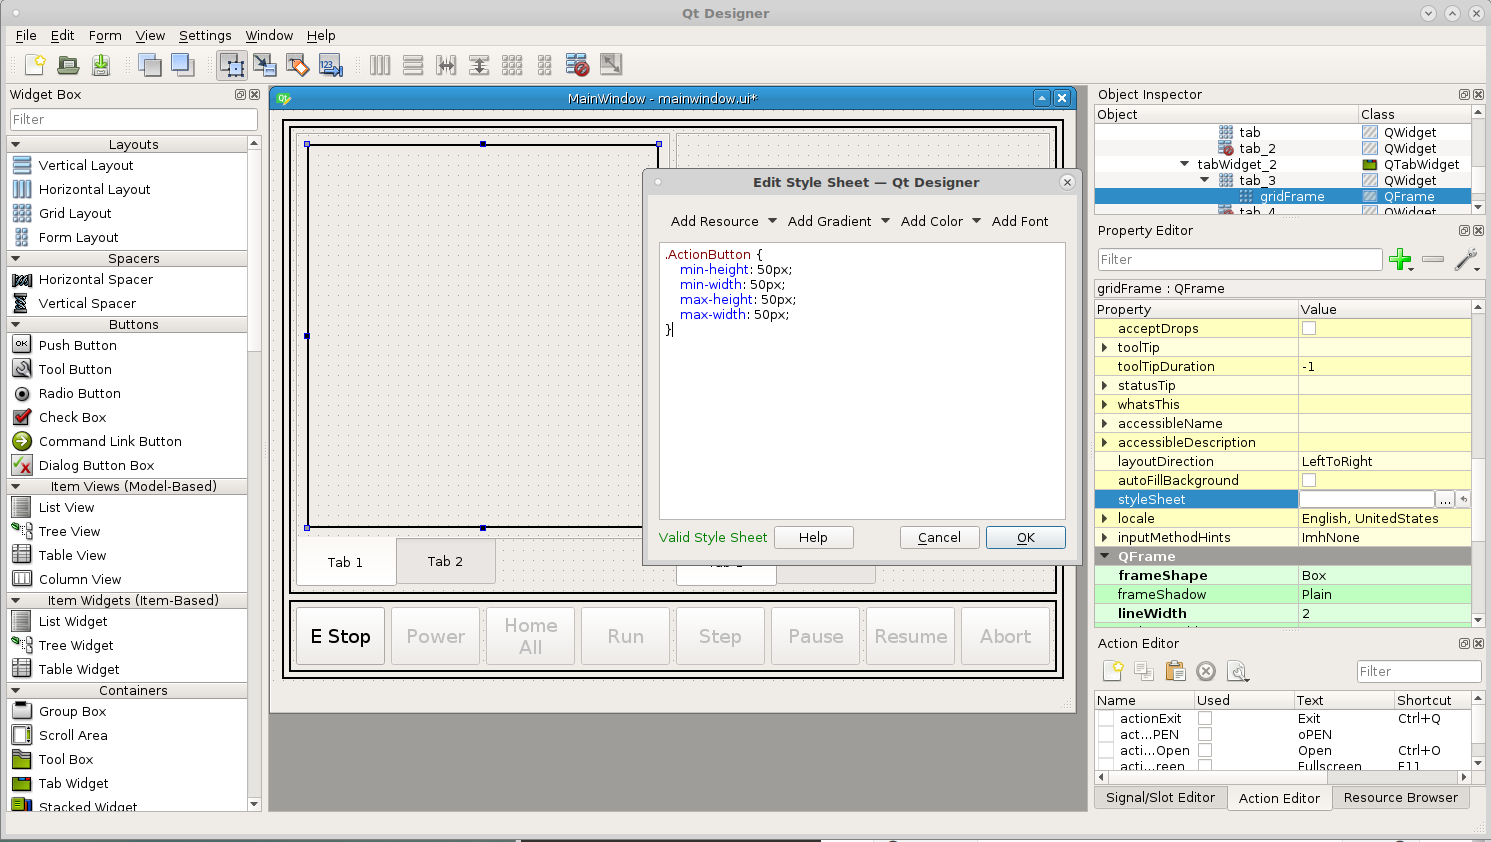
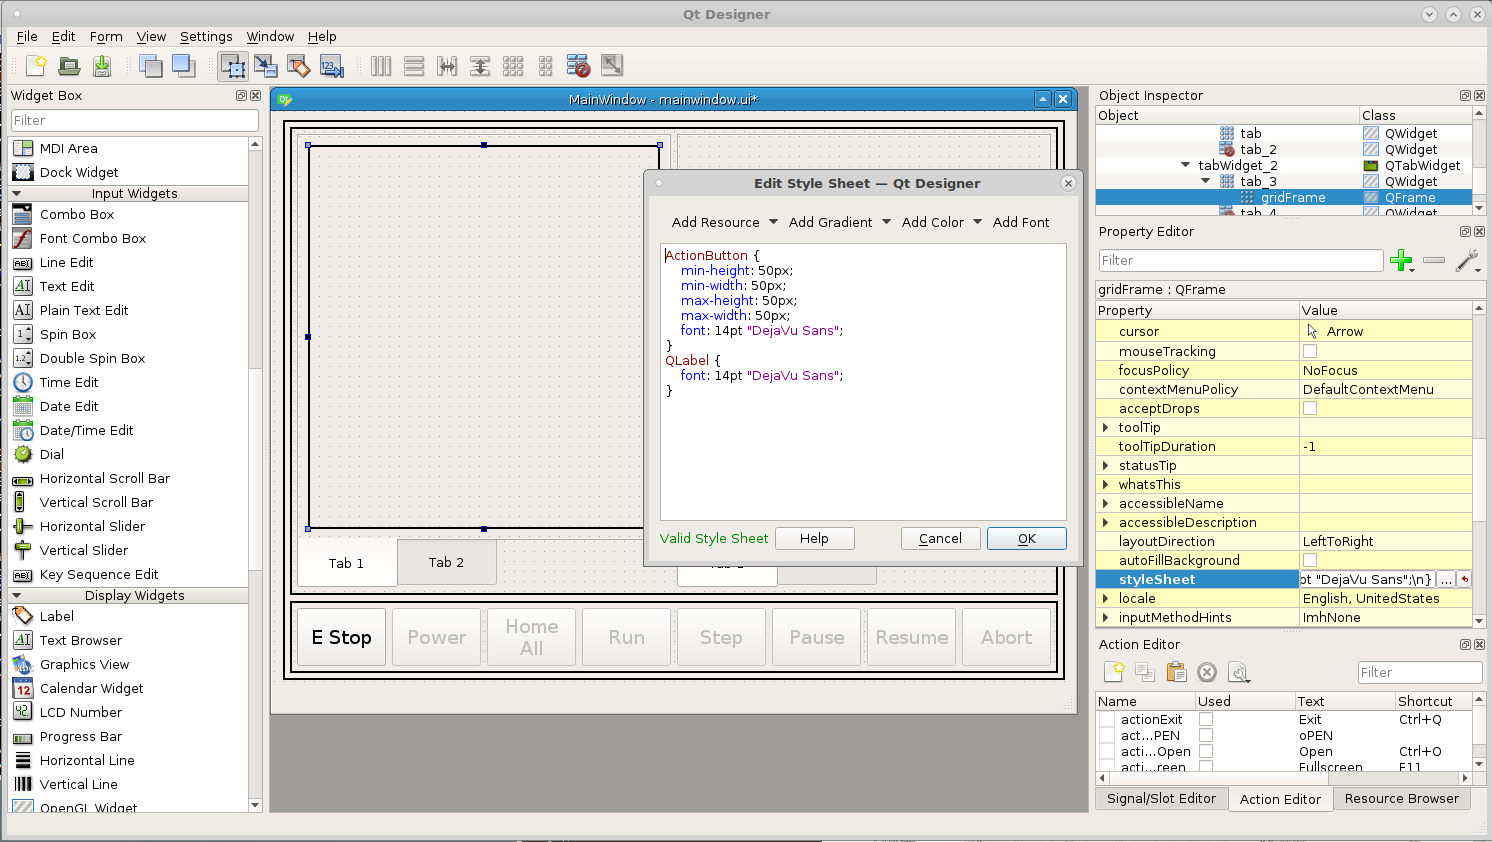
DOC: add jog buttons to tutorial

Changed region(s): [[0.0, 0.0, 1.0, 1.0]]

diff --git a/docs/source/tutorials/basic_vcp_04.rst b/docs/source/tutorials/basic_vcp_04.rst
@@ -1,8 +1,8 @@
-=============
-Home Controls
-=============
+=================
+Jog and Overrides
+=================
 
-In our left tab1 lets add some home controls, drag a grid layout into the tab
+In our left tab1 lets add some jog controls, drag a grid layout into the tab
 then right click in the tab (not the grid layout) and select layout in a grid.
 This will cause the grid layout to fill the tab.
 
@@ -17,19 +17,128 @@ line width 2, margins 5.
    :align: center
    :scale: 40 %
 
-Repeat for the right hand tab.
+In the left tab we want the buttons to be 50 x 50 px and the text to be 14pt
+font so open the stylesheet for the grid layout and add the following::
 
-Now back in the left tab we want the buttons to be 50 x 50 px so open the
-stylesheet for the grid layout and add the following::
-
-    .ActionButton {
+    ActionButton {
         min-height: 50px;
         min-width: 50px;
         max-height: 50px;
         max-width: 50px;
+        font: 14pt "DejaVu Sans";
     }
+    QLabel {
+        font: 14pt "DejaVu Sans";
+    }
+
+Notice how we set both the `QLabel` and the `ActionButton` font, if we wanted to
+we could change the labels to be a different font than the buttons.
 
 .. image:: images/vcp1-designer-13.png
    :align: center
    :scale: 40 %
+
+Now lets drag some `actionButtons` into the left panel for jogging controls and
+some labels for each axis.
+
+.. image:: images/vcp1-designer-14.png
+   :align: center
+   :scale: 40 %
+
+
+Add the following `actionNames` to the jog buttons.::
+
+    machine.jog.axis:x,pos
+    machine.jog.axis:x,neg
+    machine.jog.axis:y,pos
+    machine.jog.axis:y,neg
+    machine.jog.axis:z,pos
+    machine.jog.axis:z,neg
+
+Drag a `GcodeBackplot` into the right frame so you can see it move when you jog.
+
+.. image:: images/vcp1-run-06.png
+   :align: center
+   :scale: 60 %
+
+Drag a grid layout below the jog buttons in the tab. Drag the edge until it
+fills the tab left to right and morph it into a `QGroupBox` and set the title to
+`Jog Override`. Now we need to make a jog speed slider, drag an `ActionSlider`
+into the group box and put ``machine.jog.set-linear-speed`` in the actionName and change
+orientation to horizontal. Now add the following to the grid stylesheet
+because we want all the ActionSliders in this grid to have the same style.
+::
+
+    ActionSlider {
+        min-height: 50px;
+        max-height: 50px;
+        background: rgb(136, 138, 133);
+    }
+    ActionSlider::groove:horizontal {
+        border: 1px solid rgb(0,0,0);
+        height: 5px;
+        margin: 0 12px;
+    }
+    ActionSlider::handle:horizontal {
+        background: rgb(0,0,0);
+        border: 5px solid rgb(186, 189, 182);
+        width: 23px;
+        height: 100px;
+        margin: -24px -12px;
+    }
+
+We can also add a vertical spacer above the jog buttons to keep everything from
+expanding.
+
+.. image:: images/vcp1-designer-15.png
+   :align: center
+   :scale: 40 %
+
+Now we can see the slider in action.
+
+.. image:: images/vcp1-run-07.png
+   :align: center
+   :scale: 60 %
+
+Remove the `Vertical Spacer` and add two more grid layouts below the Jog
+Override and morph them into QGroupBoxes. In order for this all to fit in the
+QFrame you need to set the margins and spacings to 1 and we no longer need the
+box. Add ActionSliders in each box and actionNames are
+``machine.feed-override.set`` and ``machine.rapid-override.set``
+
+.. image:: images/vcp1-designer-16.png
+   :align: center
+   :scale: 40 %
+
+Now add `StatusLabels` to the side of the overrides. For the rapid override
+status label add a rule for text with the channel ``status:rapidrate`` and the
+expression is ``"{}%".format(int(ch[0]*100))``. I know that looks like gobbly
+goop but how that reads is "{replace the braces with the format results}%" and
+the format(change to an integer(channel 0 times 100)) The overrides are 1 = 100%
+so we multiply them by 100 to get a logical number. For the feed override the
+channel is ``status:feedrate`` and the expression is the same as rapid.
+
+.. image:: images/vcp1-designer-17.png
+   :align: center
+   :scale: 40 %
+
+Now when we run the VCP we can see the percent of overrides change.
+
+.. image:: images/vcp1-run-08.png
+   :align: center
+   :scale: 60 %
+
+Add another rule to each status label enable with the channel ``status:enabled``
+and the expression is ``ch[0]``. This gives us a clue that the slider is
+disabled until the power is on.
+
+.. image:: images/vcp1-designer-18.png
+   :align: center
+   :scale: 40 %
+
+Now when we run the VCP we can see the changes.
+
+.. image:: images/vcp1-run-09.png
+   :align: center
+   :scale: 60 %
 

diff --git a/docs/source/tutorials/basic_vcp_03.rst b/docs/source/tutorials/basic_vcp_03.rst
@@ -2,9 +2,8 @@
 Machine Controls
 ================
 
-Start by dragging a three of action buttons in the bottom frame. We want all
-buttons in this frame to have a minimum height and width of 50 pixels and the
-font size to be 14pt so in the stylesheet for the frame put the following.::
+We want all buttons in the bottom frame to have a minimum height and width of 50
+pixels and the font size to be 14pt so in the stylesheet for the frame put the following.::
 
     .ActionButton {
         min-height: 50px;
@@ -16,7 +15,8 @@ font size to be 14pt so in the stylesheet for the frame put the following.::
    :align: center
    :scale: 40 %
 
-From left to right add the following to the `actionName` of each button::
+Now add three action buttons in the bottom frame and from left to right add the
+following to the `actionName` of each button::
 
     machine.estop.toggle
     machine.power.toggle
@@ -29,10 +29,10 @@ button will get its name from the rule.
 Make sure you check off the `checkable` box for E Stop and Power buttons, this
 makes them a toggle button.
 
-Now we need to add a couple of rules to the right `Home All` button. The first
-rule will set the text of the button based on if all the joints are homed or
-not. Double click on the button to open the `Rules Editor` and add a new rule.
-The `Property` is Text. Add three channels with the following and make sure
+Now we need to add a couple of rules to the `Home` button. The first rule will
+set the text of the button based on if all the joints are homed or not. Double
+click on the button to open the `Rules Editor` and add a new rule. The
+`Property` is Text. Add three channels with the following and make sure
 `Trigger` is checked in each one.::
 
     status:joint[0].homed
